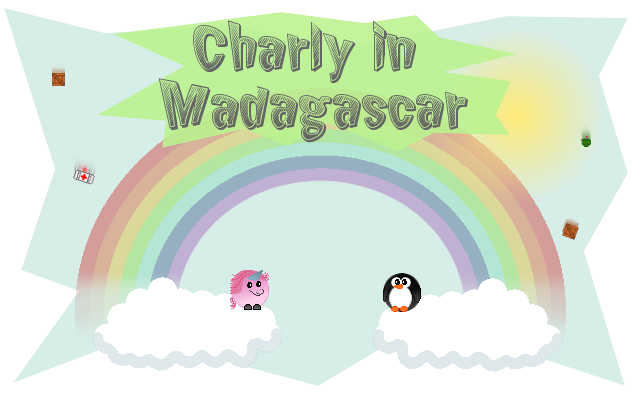
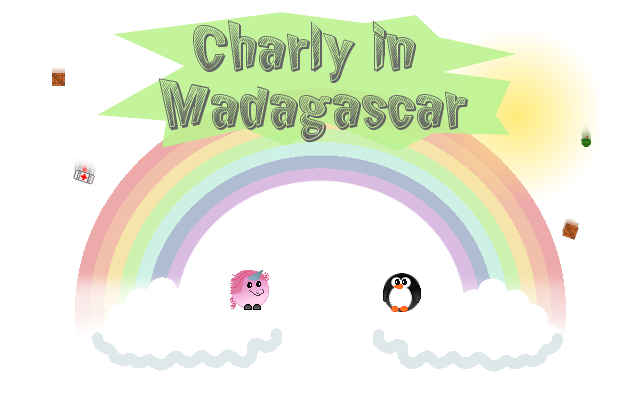
Changes discussed today
- not sure if the new skip-image is really good, but doesn't look like changing figure anymore

diff --git a/resources/layout/css/credits.css b/resources/layout/css/credits.css
@@ -1,7 +1,7 @@
 @CHARSET "ISO-8859-1";
 
 .root{
-    -fx-background-color: #FFFFFF;
+    -fx-background-image: url("file:resources/layout/back.png");
     -fx-background-position: top left;
 }
 
@@ -17,4 +17,12 @@
 
 .grid {
     -fx-padding: 0 0 0 170;
+}
+
+.scrollPane  > .viewport {
+   -fx-background-color: transparent;
+}
+
+.scrollPane {
+   -fx-background-color: transparent;
 }

diff --git a/src/de/hhu/propra/team61/CustomizeWindow.java b/src/de/hhu/propra/team61/CustomizeWindow.java
@@ -73,8 +73,6 @@ public class CustomizeWindow extends Application {
     ///Style editor
     /** grid for all GUI-elements for creating a game style */
     private CustomGrid newGameStyleGrid = new CustomGrid();
-    /** grid containing elements for changing items */
-    private CustomGrid itemsGrid = new CustomGrid();
     /**TextField for entering name of the game style */
     private TextField styleNameField = new TextField("Custom");
     /** TextField for entering teamSize of the gameStyle */
@@ -169,7 +167,6 @@ public class CustomizeWindow extends Application {
         Button edit = new Button("Edit team/game style/level");
         edit.getStyleClass().add("mainButton");
         edit.setOnAction(e -> {
-            root.getChildren().remove(itemsGrid);
             createEditGrid();
             root.setLeft(editGrid);
         });
@@ -178,7 +175,6 @@ public class CustomizeWindow extends Application {
         newTeam.setOnAction(e -> {
             initializeAndRefreshGui();
             root.setLeft(newTeamGrid);
-            root.getChildren().remove(itemsGrid);
         });
         Button newGameStyle = new Button("Create new game style");
         newGameStyle.getStyleClass().add("mainButton");
@@ -190,7 +186,6 @@ public class CustomizeWindow extends Application {
         newLevel.getStyleClass().add("mainButton");
         newLevel.setOnAction(e -> {
             initializeAndRefreshGui();
-            root.getChildren().remove(itemsGrid);
             chosenLevel = "editor/basic.lvl";
             initializeLevelEditor();
             root.setLeft(newLevelPane);
@@ -255,7 +250,6 @@ public class CustomizeWindow extends Application {
             CustomizeManager.save(teamToJson(), "teams/" + name.getText());
             createEditGrid();
             root.setLeft(editGrid);
-            root.getChildren().remove(itemsGrid);
         });
         newTeamGrid.add(saveTeam, 0, 10);
     }
@@ -293,23 +287,14 @@ public class CustomizeWindow extends Application {
             CustomizeManager.save(styleToJson(), "gamestyles/"+styleNameField.getText());
             createEditGrid();
             root.setLeft(editGrid);
-            root.getChildren().remove(itemsGrid);
         });
-        newGameStyleGrid.add(saveGameStyle, 0, 10);
-        Button changeItems = new Button("Change items");
-        changeItems.getStyleClass().add("mainButton");
-        newGameStyleGrid.add(changeItems, 0, 5);
-        changeItems.setOnAction(e -> {
-            root.setRight(itemsGrid);
-        });
-        Text whatIsChangeItems = new Text("Add/remove/edit weapons or other items.");
-        newGameStyleGrid.add(whatIsChangeItems, 1, 5, 2, 1);
+        newGameStyleGrid.add(saveGameStyle, 0, 12);
         Label items = new Label("Items");
         items.setFont(Font.font("Verdana", 20));
-        itemsGrid.add(items, 0, 2);
+        newGameStyleGrid.add(items, 6, 2);
         Text enter = new Text ("Enter the quantity of each item.\n " +
                 "(number of projectiles for weapons)");
-        itemsGrid.add(enter, 0, 3, 2, 2);
+        newGameStyleGrid.add(enter, 6, 3, 2, 1);
     }
 
     /**
@@ -961,7 +946,7 @@ public class CustomizeWindow extends Application {
     private void initializeArrayLists() {
         for (int i=0; i<6; i++) {
             figureNames.add(new TextField("Character" + (i+1)));
-            newTeamGrid.add(figureNames.get(i), 0, i+3);
+            newTeamGrid.add(figureNames.get(i), 0, i+4);
         }
         itemNames.add("Bazooka");
         itemNames.add("Grenade");
@@ -980,37 +965,39 @@ public class CustomizeWindow extends Application {
                 public void changed(ObservableValue<? extends Boolean> observable, Boolean oldValue, Boolean newValue) {
                     if (!newValue) {
                         itemSliders.get(finalI).setValue(0);
+                        itemSliders.get(finalI).setDisable(true);
                     } else {
                         double j = Math.random()*100;
                         itemSliders.get(finalI).setValue((int)j);
+                        itemSliders.get(finalI).setDisable(false);
                     }
                 }
             });
-            itemsGrid.add(itemCheckBoxes.get(i), 0, i + 6);
+            newGameStyleGrid.add(itemCheckBoxes.get(i), 6, i + 4);
         }
         for (int i=0; i<itemNames.size(); i++) {
             String item = itemNames.get(i);
-            if (item == "Poisoned arrow" || item == "Medipack" || item == "Banana-Bomb" || item == "Digiwise") {
-                double h = Math.random()*10;
+            if (item.equals("Poisoned arrow") || item.equals("Medipack") || item.equals("Banana-Bomb") || item.equals("Digiwise")) {
+                double h = Math.random() * 10;
                 itemSliders.add(new Slider(0, 10, (int)h));
                 itemSliders.get(i).setShowTickMarks(true);
                 itemSliders.get(i).setShowTickLabels(true);
-                itemSliders.get(i).setMajorTickUnit(5);
-                itemSliders.get(i).setMinorTickCount(1);
-                itemSliders.get(i).setBlockIncrement(2);
-                itemsGrid.add(itemSliders.get(i), 1, i + 6, 3, 1);
+                itemSliders.get(i).setMajorTickUnit(2);
+                itemSliders.get(i).setBlockIncrement(1);
+                newGameStyleGrid.add(itemSliders.get(i), 7, i + 4, 3, 1);
             } else {
-                if (item == "Pistol") {
+                if (item.equals("Pistol")) {
                     Text infinite = new Text("Infinite");
-                    itemsGrid.add(infinite, 1, i+6, 3, 1);
+                    newGameStyleGrid.add(infinite, 7, i+4, 3, 1);
                     itemSliders.add(new Slider(0, 100000, 100000));
                 } else {
                     double h = Math.random() * 50;
                     itemSliders.add(new Slider(0, 50, (int) h));
                     itemSliders.get(i).setShowTickMarks(true);
                     itemSliders.get(i).setShowTickLabels(true);
-                    itemSliders.get(i).setBlockIncrement(25);
-                    itemsGrid.add(itemSliders.get(i), 1, i + 6, 3, 1);
+                    itemSliders.get(i).setMajorTickUnit(10);
+                    itemSliders.get(i).setBlockIncrement(1);
+                    newGameStyleGrid.add(itemSliders.get(i), 7, i + 4, 3, 1);
                 }
             }
         }

diff --git a/src/de/hhu/propra/team61/CreditsWindow.java b/src/de/hhu/propra/team61/CreditsWindow.java
@@ -6,6 +6,7 @@ import javafx.fxml.FXMLLoader;
 import javafx.scene.Scene;
 import javafx.scene.control.ScrollPane;
 import javafx.scene.layout.Pane;
+import javafx.scene.layout.StackPane;
 
 import java.io.IOException;
 
@@ -18,8 +19,11 @@ public class CreditsWindow {
 
     /** Controls GUI-elements from FXML-file */
     private CreditsController creditsController = new CreditsController();
-    /** root for optionScene */
-    private ScrollPane root = new ScrollPane();
+    /** contains background and scrollPane */
+    private StackPane root = new StackPane();
+    /** scrollPane for creditsScene */
+    private ScrollPane scrollPane = new ScrollPane();
+    /** grid for GUI */
     private Pane grid = new Pane();
 
     /**
@@ -30,8 +34,10 @@ public class CreditsWindow {
         try {
             FXMLLoader creditsLoader = new FXMLLoader(getClass().getResource("gui/credits.fxml"));
             grid = creditsLoader.load();
-            root.setContent(grid);
+            scrollPane.setContent(grid);
+            scrollPane.getStyleClass().add("scrollPane");
             creditsController = creditsLoader.getController();
+            root.getChildren().add(scrollPane);
             Scene creditsScene = new Scene(root, 1000, 600);
             creditsScene.getStylesheets().add("file:resources/layout/css/credits.css");
             sceneController.switchScene(creditsScene, "Credits");

diff --git a/src/de/hhu/propra/team61/MapWindow.java b/src/de/hhu/propra/team61/MapWindow.java
@@ -1207,7 +1207,7 @@ public class MapWindow extends Application implements Networkable {
                 if(shootingIsAllowed) {
                     server.send("CURRENT_FIGURE_CHOOSE_WEAPON 3");
                     currentFigureChooseWeapon(3);
-                    server.send("SET_GAME_COMMENT 1 Shotgun ("+teams.get(currentTeam).getCurrentFigure().getSelectedItem().getFormattedMunition()+"): " + Shotgun.DESCRIPTION);
+                    server.send("SET_GAME_COMMENT 1 Shotgun (∞): " + Shotgun.DESCRIPTION);
                     server.send("PLAY_SFX shotgun");
                 }
                 break;
